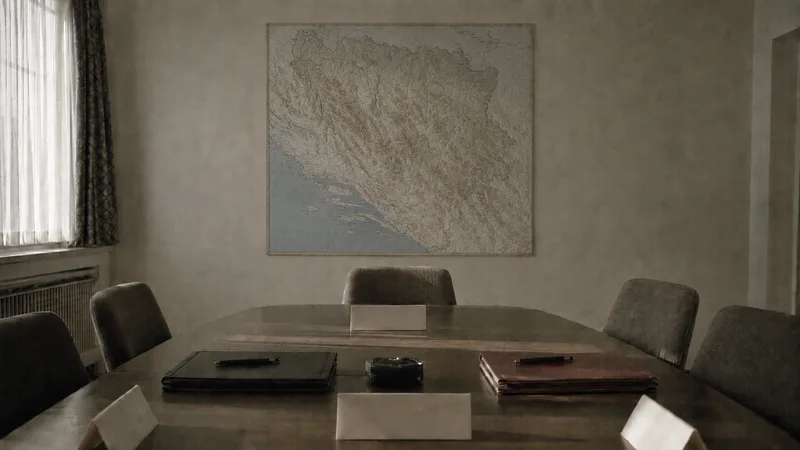
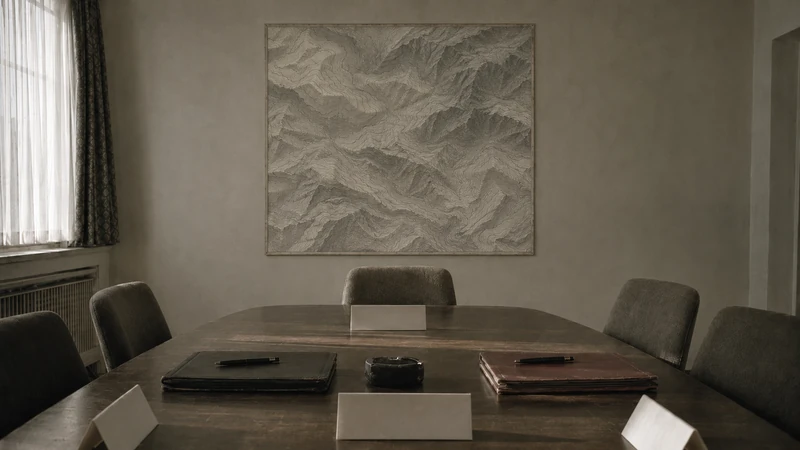
Replace diplomatic event stills with terrain-only maps (#541)
* art: replace diplomatic and Washington stills with terrain-only maps

* data(events): wire the regenerated negotiation and Washington stills (A1-A8 approved)

event_diplomatic_negotiation -> its 18 packet B1 rows; event_washington_agreement also
takes the two rows held for its regeneration (csq_joint_operations_agreement_1992,
csq_federation_early_1994). Image keys only; no other field changes.

* docs(ledger): event-art library accepted (16/17), B10 returned

---------

diff --git a/docs/PROJECT_LEDGER.md b/docs/PROJECT_LEDGER.md
@@ -13760,3 +13760,12 @@ Owner asked to update the roadmap after the 2026-11-06 sign-off.
 - `MASTER_ROADMAP.md`: new current-state block (calibration closed at 712/711/712/710; live = headless, 0 cells, three player factions; Farz guard enforced on n63). The R8 status now says calibration no longer blocks it and names the packaged work left: three 24-turn shakedowns, three 188-turn campaigns with diaries, per-faction Save/load, same-input determinism, strict runtime/audio. Register row R8 and the program sequence updated to match.
 - The superseded 2026-10-27 hold and the October R6/R8 NO-GO paragraphs moved word for word to the status history archive (links rebased). `plan_index.yml` regenerated (R8 stays open).
 - No code, simulation, scenario or calibration change.
+
+## 2026-11-07 - Event-art library accepted: 17 plates approved and wired (PRESENTATION, DATA IMAGE KEYS, BRANCHES #541-#544)
+
+Codex delivered 17 opaque Q90 plates in #541-#544 under the art work order and the Historian's event-art packet. Claude reviewed each file against A1-A8 at native size (3x crops where needed):
+- #541 (B1 negotiation room, B1b Washington): approved. Terrain sheets carry no country, coast or partition outline. B1 wired to its 18 packet rows; Washington also takes the two rows held for its regeneration.
+- #542 (economic and territorial decision headers): approved; `EVENT_CATEGORY_HEADERS` no longer borrows the intelligence and military plates (new test).
+- #543 (B2-B8): approved, 58 rows. B2 meets the 2026-11-06 section 6 conditions and serves `un_resolution_819_srebrenica_1993` per that verdict; B5 has no civilian columns (Storm/Neretva flags).
+- #544 (B9-B14): all six approved, 50 rows. B10 `event_arms_pipeline_night` came back once (palms in the treeline); the revision (pine and broadleaf, e0c26c9ee) was approved and its 12 rows wired.
+Image keys only (231 rows now carry art); a wiring script verified no other field changed. Baseline regression on the combined state: all scenarios match (sim byte-identical). 126 event/art test files pass. The Heliodrom plate remains ungenerated (section 6 gated).
